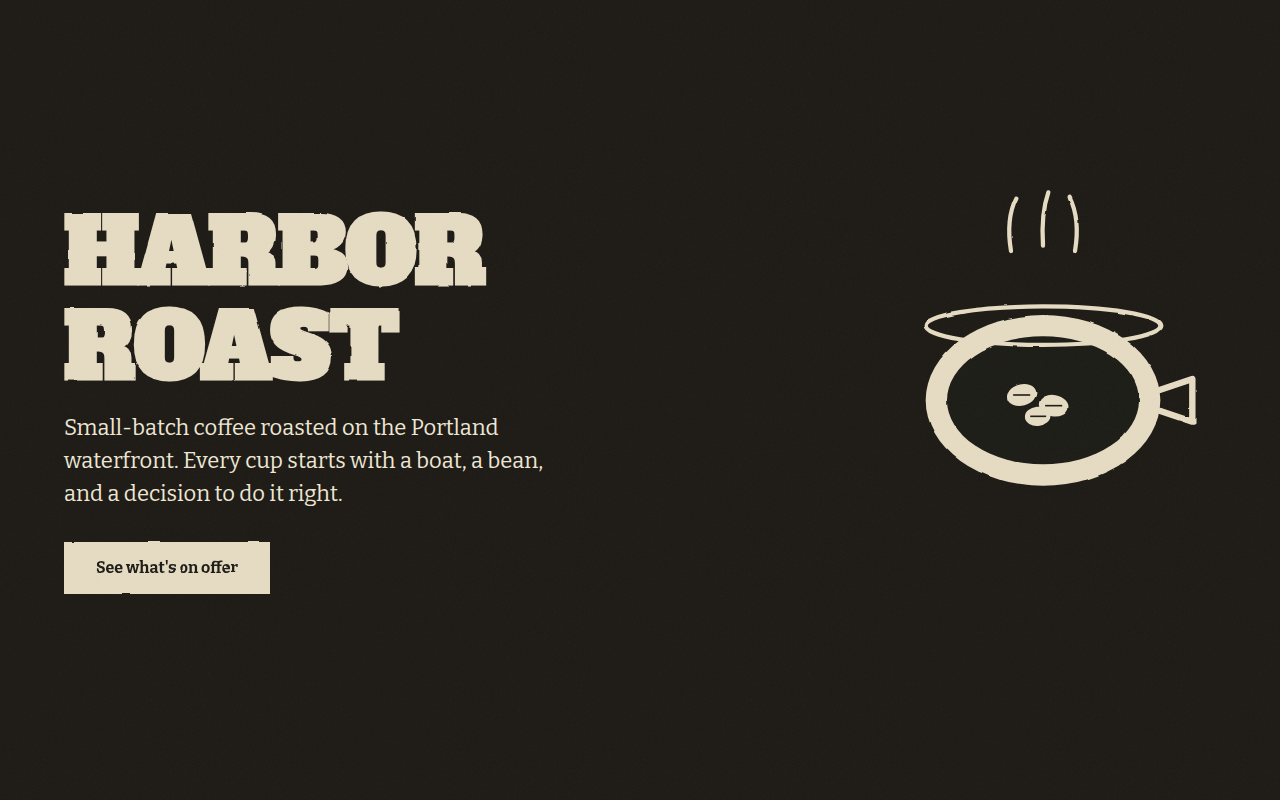
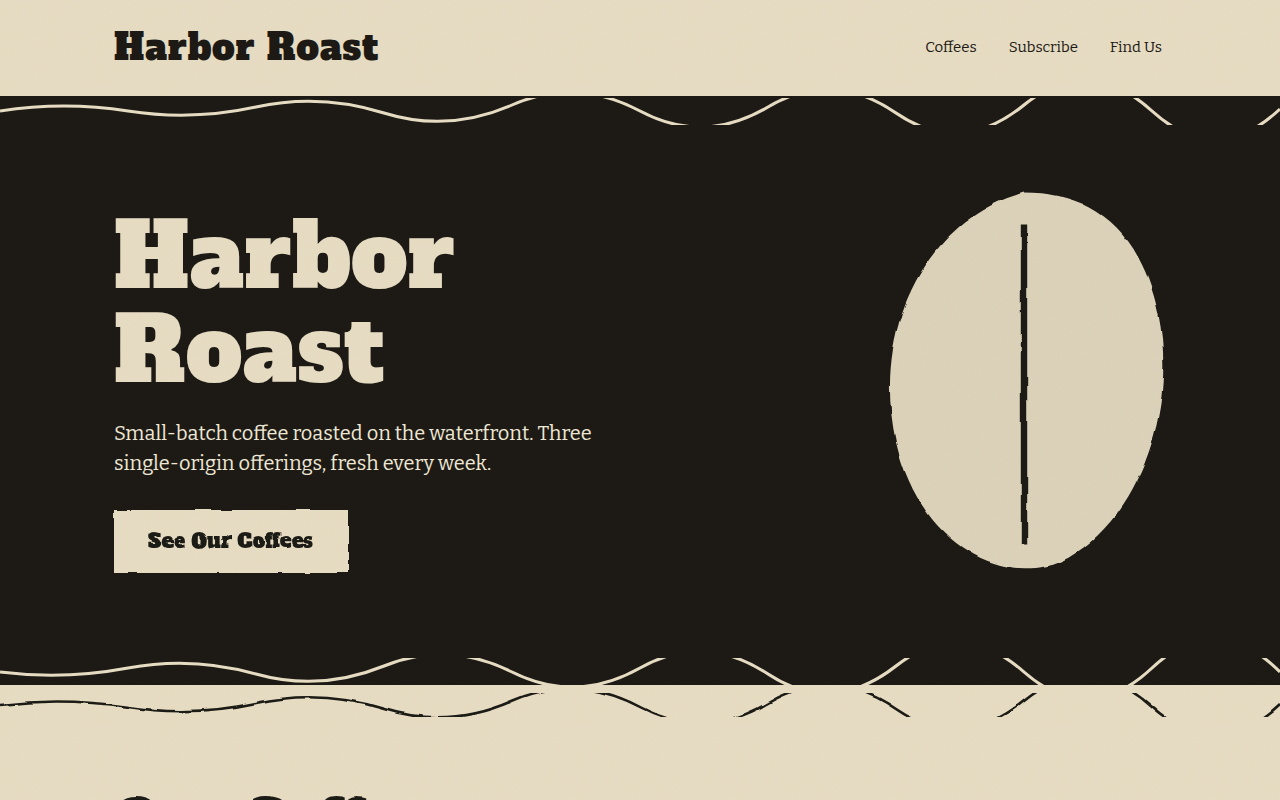
Harbor Roast screenshot from today's run

diff --git a/README.md b/README.md
@@ -32,7 +32,7 @@ dogear talks to a local model through [Ollama](https://ollama.com), gives it the
 </p>
 
 <p align="center">
-  <img src="docs/screenshots/harbor-roast.png" width="820" alt="The page the agent built after the linocut direction was picked: ink on paper, slab headline, a cut roasting pan, a coffee ledger with prices">
+  <img src="docs/screenshots/harbor-roast.png" width="820" alt="The page the agent built after the Linocut look was picked: ink on paper, slab headline, a carved coffee bean, gouged wave dividers">
   <br><sub>The result of that plan with the Linocut look picked: built by qwen3.6:35b-a3b in five tasks including the look pass, audit clean at desktop and phone width.</sub>
 </p>
 - **Memory.** Notes the agent keeps (decisions, gotchas, commands, preferences) per project (`<project>/.dogear/`) or globally.
